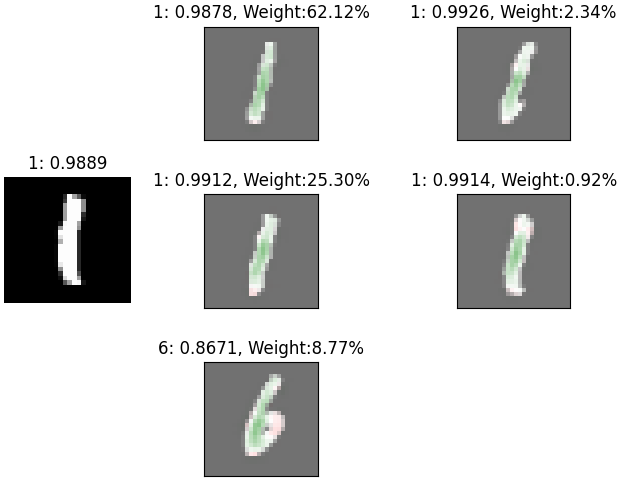
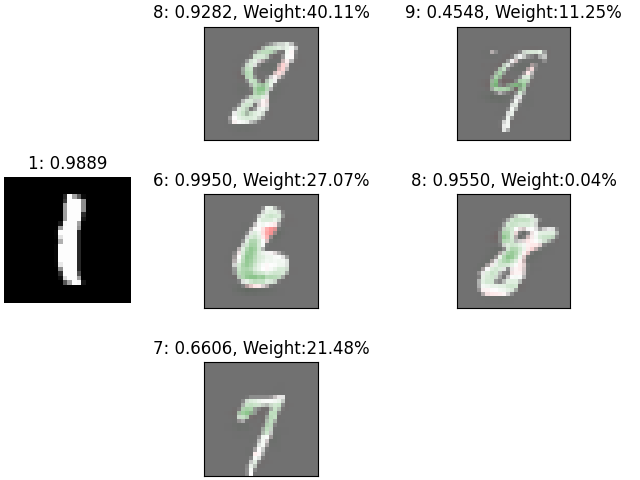
short version of original exp

diff --git a/src/main.py b/src/main.py
@@ -18,8 +18,6 @@ import src.evaluation as e
 import src.simplex_versions as s
 import src.classifier_versions as c
 from src.visualization.images import plot_corpus_decomposition_with_jacobian
-from src.cats_and_dogs_training import get_classes_for_preds
-from src.classifier.CatsAndDogsClassifier import CatsandDogsClassifier
 from src.utils.utlis import create_input_baseline, print_jacobians_with_img, plot_test_img_and_most_imp_explainer
 
 currentdir = os.path.dirname(os.path.abspath(inspect.getfile(inspect.currentframe())))
@@ -171,7 +169,7 @@ def do_simplex(model_type=Model_Type.ORIGINAL, dataset=Dataset.MNIST, cv=0, deco
     return weights, latent_r2_score, output_r2_score, jacobian, decompostions, test_data, corpus_data, classifier
 
 
-def run_all_experiments(corpus_size=100, test_size=10, decomposition_size=3, cv=0, test_id=0, filename="comparison_results.csv", random_dataloader=False, no_ablation=False, do_decomp=True, dataset=None) -> tuple[list[torch.Tensor], list[list[float]], list[list[float]], list[torch.Tensor], list[list[dict]]]:#TODO update
+def run_all_experiments(corpus_size=100, test_size=10, decomposition_size=3, cv=0, test_id=0, filename="comparison_results.csv", random_dataloader=False, no_ablation=True, plot_decomposition=True, datasets:list=list(Dataset)) -> tuple[list[torch.Tensor], list[list[float]], list[list[float]], list[torch.Tensor], list[list[dict]]]:#TODO update
     """
     runs all experiments over different sets of models and datasets, depending on settings.
     no_ablation=True: first 3 simplex models, and all 4 datasets.  no_ablation=False: like ablation study, over all simplex models, including ablation versions, but only on mnist dataset.
@@ -184,7 +182,8 @@ def run_all_experiments(corpus_size=100, test_size=10, decomposition_size=3, cv=
         test_id (int, optional): test image to choose from test set when prints are done. eg for jacobians. Defaults to 0.
         filename (str, optional): filename to use for the results of this round of experiments. Defaults to "comparison_results.csv".
         random_dataloader (bool, optional): Whether samples random images or the same images in each run. Defaults to False.
-        no_ablation (bool, optional): Whether the models which were created for the ablation study are used. if False, only first three are used: original, compact and reimplemented. Defaults to False.
+        plot_decomposition (bool, optional): whether the created decompositions are plotted. Defaults to True.
+        datasets (list|None, optional): a list of selected datasets from enum Dataset. Defaults to a list of all datasets from the enum.
 
     Returns:
         tuple[list[torch.Tensor], list[list[float]], list[list[float]], list[torch.Tensor], list[list[dict]]]: returns weights_all, latent_r2_scores, output_r2_scores, jacobians, decompostions. 
@@ -228,10 +227,8 @@ def run_all_experiments(corpus_size=100, test_size=10, decomposition_size=3, cv=
                         ])
             
         models = list(Model_Type)[:3] if no_ablation else Model_Type
-        if not dataset:
+        if not datasets:
             datasets = list(Dataset) if no_ablation else [list(Dataset)[0]]
-        else:
-            datasets = [dataset]
         for d in datasets:
             for m in models:
                 print(f"   model: {m}, dataset: {d}")
@@ -243,7 +240,6 @@ def run_all_experiments(corpus_size=100, test_size=10, decomposition_size=3, cv=
                     test_size=test_size, 
                     decomposition_size=decomposition_size, 
                     test_id=test_id,
-                    #decompose=do_decomp,
                     random_dataloader=random_dataloader)
                 
                 weights_all.append(weights)
@@ -257,45 +253,45 @@ def run_all_experiments(corpus_size=100, test_size=10, decomposition_size=3, cv=
                 corpus_weights = [dec_c[i]["c_weight"] for i in range(decomposition_size)]
                 corpus_targest = [dec_c[i]["c_target"] for i in range(decomposition_size)]
                 time_stamp = strftime("%Y-%m-%d-%H:%M:%S", gmtime())
-                if d == Dataset.CaD:
-                    test_pred = classifier(test_data)
-                    test_pred = f"Cat: {1-test_pred[test_id].item():.4f}%" if test_pred[test_id].item()<0.5 else f"Dog: {test_pred[test_id].item():.4f}%"
-                    corpus_pred = []
-                    corpus_preds = classifier(corpus_data)
-                    for pred in corpus_preds:
-                        if pred <0.5:
-                            corpus_pred.append(f"Cat: {1-pred.item():.4f}%")
-                        else:
-                            corpus_pred.append(f"Dog: {pred.item():.4f}%")
-                    figure = plot_corpus_decomposition_with_jacobian(test_image=test_data[test_id],
-                                                                     test_pred=test_pred,
-                                                                     corpus=corpus_data,
-                                                                     corpus_preds=corpus_pred,
-                                                                     weights=weights[test_id],
-                                                                     jacobian=jacobian,
-                                                                     decomposition_length=decomposition_size)
-                    image_save_path = os.path.join("files","images",f"{d}_{cv}_{test_id}_{m}.png")
-                    figure.savefig(image_save_path)
-                elif d in [Dataset.MNIST,Dataset.MNIST_MakeCorpus]:
-                    test_pred = classifier.probabilities(test_data)
-                    pred = torch.argmax(test_pred, dim=1)
-                    test_pred = f"{pred[test_id]}: {test_pred[test_id][pred[test_id]]:.4f}"
-                    corpus_pred = []
-                    corpus_preds = classifier.probabilities(corpus_data)
-                    for c_pred in corpus_preds:
-                        max_arg = torch.argmax(c_pred, dim=0)
-                        corpus_pred.append(f"{max_arg}: {c_pred[max_arg]:.4f}")
-                    figure = plot_corpus_decomposition_with_jacobian(test_image=test_data[test_id],
-                                                                     test_pred=test_pred,
-                                                                     corpus=corpus_data,
-                                                                     corpus_preds=corpus_pred,
-                                                                     weights=weights[test_id],
-                                                                     jacobian=jacobian,
-                                                                     decomposition_length=decomposition_size)
-                    image_save_path = os.path.join("files","images",f"{d}_{cv}_{test_id}_{m}.png")
-                    figure.savefig(image_save_path)
-                else:
-                    image_save_path= "No visualization"
+                image_save_path = "No visualization"
+                if plot_decomposition:
+                    if d == Dataset.CaD:
+                        test_pred = classifier(test_data)
+                        test_pred = f"Cat: {1-test_pred[test_id].item():.4f}%" if test_pred[test_id].item()<0.5 else f"Dog: {test_pred[test_id].item():.4f}%"
+                        corpus_pred = []
+                        corpus_preds = classifier(corpus_data)
+                        for pred in corpus_preds:
+                            if pred <0.5:
+                                corpus_pred.append(f"Cat: {1-pred.item():.4f}%")
+                            else:
+                                corpus_pred.append(f"Dog: {pred.item():.4f}%")
+                        figure = plot_corpus_decomposition_with_jacobian(test_image=test_data[test_id],
+                        test_pred=test_pred,
+                        corpus=corpus_data,
+                        corpus_preds=corpus_pred,
+                        weights=weights[test_id],
+                        jacobian=jacobian,
+                        decomposition_length=decomposition_size)
+                        image_save_path = os.path.join("files","images",f"{d}_{cv}_{test_id}_{m}.png")
+                        figure.savefig(image_save_path)
+                    elif d in [Dataset.MNIST,Dataset.MNIST_MakeCorpus]:
+                        test_pred = classifier.probabilities(test_data)
+                        pred = torch.argmax(test_pred, dim=1)
+                        test_pred = f"{pred[test_id]}: {test_pred[test_id][pred[test_id]]:.4f}"
+                        corpus_pred = []
+                        corpus_preds = classifier.probabilities(corpus_data)
+                        for c_pred in corpus_preds:
+                            max_arg = torch.argmax(c_pred, dim=0)
+                            corpus_pred.append(f"{max_arg}: {c_pred[max_arg]:.4f}")
+                        figure = plot_corpus_decomposition_with_jacobian(test_image=test_data[test_id],
+                        test_pred=test_pred,
+                        corpus=corpus_data,
+                        corpus_preds=corpus_pred,
+                        weights=weights[test_id],
+                        jacobian=jacobian,
+                        decomposition_length=decomposition_size)
+                        image_save_path = os.path.join("files","images",f"{d}_{cv}_{test_id}_{m}.png")
+                        figure.savefig(image_save_path)
                 writer.writerow([
                     time_stamp, 
                     corpus_size, 
@@ -349,12 +345,12 @@ def run_original_experiment():
     """
     MNIST Approximation Quality Experiment as in paper and approximation_quality in original code (mnist.py). Using all 4 simplex models on MNIST dataset. 
     """
-    
-    no_ablation = True
-    models = list(Model_Type)[:2] if no_ablation else Model_Type    # in orig: "explainer names"
-    dataset = list(Dataset)[0]
-    decomposition_sizes = [3, 5]#, 10, 20, 50]#TODO
+
+    models = [Model_Type.ORIGINAL, Model_Type.REIMPLEMENTED]
+    datasets = list(Dataset)[:1] #TODO all 4
+    decomposition_sizes = [3, 5]#, 10, 20, 50]
     cv_list = range(0,2)#TODO 10) # the results from the paper were obtained by taking all integer CV between 0 and 9
+    explainer_names = []
     results_df = pd.DataFrame(
         columns=[
             "explainer",
@@ -368,31 +364,34 @@ def run_original_experiment():
     # execute experiments for all decomposition sizes, cv's (different random seeds), first 3 simplex models ( original, compact original and reimplemented) on the original MNIST dataset
     for dec_s in decomposition_sizes:
         for cv in cv_list[:3]: #TODO remove debugging [0]
-            w, l_r2, o_r2, jac, dec = run_all_experiments(corpus_size=1000, test_size=100, decomposition_size=dec_s, cv=cv, test_id=0, filename="approximation_quality_results.csv", random_dataloader=True, no_ablation=no_ablation, do_decomp=False, dataset=dataset)  #TODO: with all datasets 
-            for i, m in enumerate(models):
-                results_df = pd.concat(
-                    [
-                        results_df,
-                        pd.DataFrame.from_dict(
-                            {
-                                "explainer": [m.name],
-                                "n_keep": [dec_s],
-                                "cv": [cv],
-                                "r2_latent": [l_r2[i]],
-                                "r2_output": [o_r2[i]],
-                            }
-                        ),
-                    ],
-                    ignore_index=True,
-                )
+            w, l_r2, o_r2, jac, dec = run_all_experiments(corpus_size=10, test_size=5, decomposition_size=dec_s, cv=cv, test_id=0, filename="approximation_quality_results.csv", random_dataloader=True, no_ablation=True, plot_decomposition=False, datasets=datasets)  #TODO: with all datasets #TODO change back to 1000 100
+            for d in datasets:
+                for i, m in enumerate(models):
+                    explainer_name = f"{m.name}_{d.name}"
+                    results_df = pd.concat(
+                        [
+                            results_df,
+                            pd.DataFrame.from_dict(
+                                {
+                                    "explainer": [explainer_name],
+                                    "n_keep": [dec_s],
+                                    "cv": [cv],
+                                    "r2_latent": [l_r2[i]],
+                                    "r2_output": [o_r2[i]],
+                                }
+                            ),
+                        ],
+                        ignore_index=True,
+                    )
+                    explainer_names.append(explainer_name)
 
     metric_names = ["r2_latent", "r2_output"]
-    explainer_names = [model.name for model in models]
-    line_styles = {f"{explainer_names[0]}": "-", f"{explainer_names[1]}": "--"}#TODO , f"{explainer_names[2]}": ":"}
+    line_styles = {f"{explainer_names[0]}": "-", f"{explainer_names[1]}": ":"}#, f"{explainer_names[2]}": ":"}
 
-    #plt.rc("text", usetex=True)
-    #params = {"text.latex.preamble": r"\usepackage{amsmath}"}
-    #plt.rcParams.update(params)
+    #matplotlib.rcParams['text.usetex'] = False
+    plt.rc("text", usetex=True)
+    params = {"text.latex.preamble": r"\usepackage{amsmath}"}
+    plt.rcParams.update(params)
     
     sns.set(font_scale=1.5)
     sns.set_style("white")
@@ -420,15 +419,16 @@ def run_original_experiment():
     timestamp = strftime("%Y-%m-%d_%H-%M-%S", gmtime())
 
     plt.figure(1)
-    plt.xlabel(r"$K$")
+    plt.xlabel(r"$decomposition size$")
     plt.ylabel(r"$R^2_{\mathcal{H}}$")
     plt.legend()
-    plt.savefig(os.path.join(save_path, f"r2_latent_{timestamp}.pdf", bbox_inches="tight"))
+    plt.savefig(os.path.join(save_path, f"r2_latent_{timestamp}.pdf"), bbox_inches="tight")
     plt.figure(2)
-    plt.xlabel(r"$K$")
+    plt.xlabel(r"$decomposition size$")
     plt.ylabel(r"$R^2_{\mathcal{Y}}$")
     plt.legend()
-    plt.savefig(os.path.join(save_path, f"r2_output{timestamp}.pdf", bbox_inches="tight"))
+    plt.savefig(os.path.join(save_path, f"r2_output{timestamp}.pdf"), bbox_inches="tight")
+    #TODO adjust decomposition size in plot axis
 
     return
 
